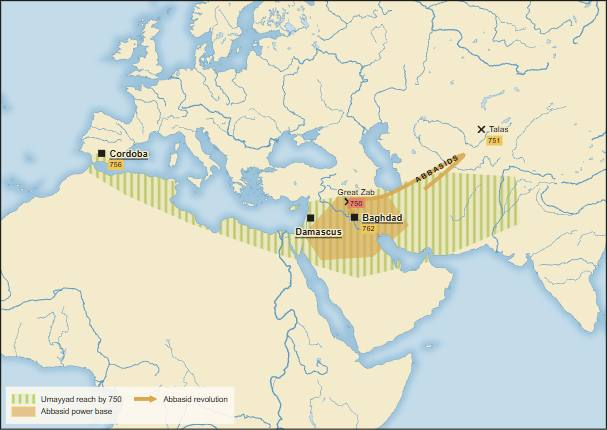
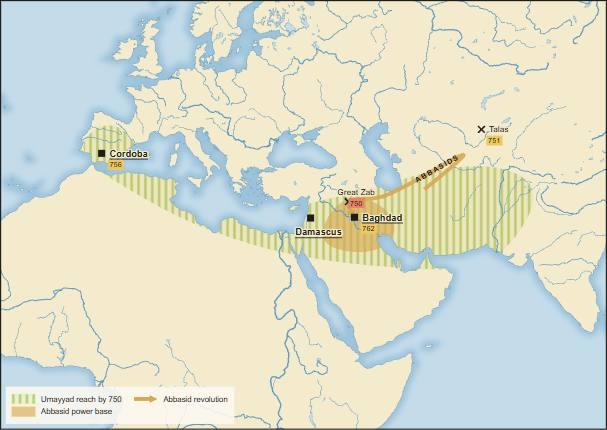
Round 6–7 plate fixes
Copilot-Session: 37f2f47f-8b63-49cd-b8ce-cded564ac449

diff --git a/atlas/plates/abbasid-baghdad.js b/atlas/plates/abbasid-baghdad.js
@@ -1,43 +1,44 @@
 // Abbasid Baghdad and the House of Wisdom, round 7.
 (function () {
   const IS="#6b8c3f", KNOW="#5b78a8", BYZ="#d66a4a", IND="#b36b2e", CHN="#8c5fb3", PER="#9a6a38", WATER="#5f9dc7", WALL="#7b6848";
-  const BAG=[44.37,33.31], CON=[28.98,41.01], SAM=[66.98,39.65], GUN=[48.56,32.28], UJJ=[75.78,23.18], CHANG=[108.94,34.26], CORD=[-4.78,37.88], TOL=[-4.03,39.86];
+  const BAG=[44.37,33.31], CON=[28.98,41.01], SAM=[66.98,39.65], GUN=[48.56,32.28], SINDH=[68.0,24.0], CHANG=[108.94,34.26], CORD=[-4.78,37.88], TOL=[-4.03,39.86];
   const circle=(cx,cy,r,n=96)=>Array.from({length:n+1},(_,i)=>{const a=2*Math.PI*i/n; return [cx+r*Math.cos(a),cy+r*Math.sin(a)];});
   window.PLATES["abbasid-baghdad"] = { id:"abbasid-baghdad", title:"Abbasid Baghdad: the Round City and the House of Wisdom", head:"Early Middle Ages / Islam", folio:"18", viewer:"medieval/0762/ch-abbasid-baghdad", figures:[
-    { caption:"The Round City founded by al-Mansur, 762", share:0.55, extent:[[0,0],[100,80]], projection:"plan", base:{map:false,sea:"#fbf8f0"}, layers:[
-      {id:"tigris",type:"route",style:"dashed",colour:WATER,width:5,legend:"Tigris",path:[[78,78],[74,65],[72,52],[75,36],[73,18],[70,2]]},
-      {id:"sarat",type:"route",style:"road",colour:WATER,width:2.3,legend:"Sarat and Isa canals",path:[[18,52],[34,49],[50,45],[67,42],[75,39]]},
-      {id:"isa",type:"route",style:"road",colour:WATER,width:2.3,path:[[17,28],[36,30],[53,33],[72,36]]},
+    { caption:"The Round City founded by al-Mansur, 762", share:0.55, extent:[[10,8],[86,72]], projection:"plan", base:{map:false,sea:"#fbf8f0"}, layers:[
+      {id:"tigris",type:"route",style:"dashed",colour:WATER,width:5,legend:"Tigris",path:[[74,72],[72,62],[73,50],[76,38],[74,25],[71,8]]},
+      {id:"isa",type:"route",style:"road",colour:WATER,width:2.3,legend:"Isa canal, north of the city",path:[[18,67],[35,69],[54,69],[70,64],[73,58]]},
+      {id:"sarat",type:"route",style:"road",colour:WATER,width:2.3,legend:"Sarat canal, south of the city",path:[[16,19],[31,15],[50,14],[67,18],[74,27]]},
       {id:"outer-wall",type:"boundary",style:"wall",colour:WALL,width:2.8,legend:"Round City walls",path:circle(48,40,25)},
       {id:"inner-wall",type:"boundary",style:"solid",colour:WALL,width:1.3,legend:"Inner palace ring",path:circle(48,40,10)},
-      {id:"kufa-gate",type:"point",symbol:"fortress",at:[34,19],name:"Kufa Gate",legend:"Four gates"},
-      {id:"basra-gate",type:"point",symbol:"fortress",at:[65,21],name:"Basra Gate"},
+      {id:"kufa-gate",type:"point",symbol:"fortress",at:[34,19],name:"Kufa Gate",legend:"Four gates",labelPos:"e"},
+      {id:"basra-gate",type:"point",symbol:"fortress",at:[65,21],name:"Basra Gate",labelPos:"s"},
       {id:"khurasan-gate",type:"point",symbol:"fortress",at:[73,45],name:"Khurasan Gate"},
       {id:"syria-gate",type:"point",symbol:"fortress",at:[26,48],name:"Syria Gate"},
-      {id:"palace",type:"point",symbol:"capital",at:[46,41.5],name:"Golden Gate palace",legend:"Palace and mosque",dx:-28},
-      {id:"mosque",type:"point",symbol:"temple",at:[51,35],name:"Great Mosque"},
-      {id:"karkh",type:"area",tier:"influence",colour:IS,legend:"Karkh market suburb",polygon:[[17,17],[31,15],[34,25],[25,33],[13,29]],smooth:false,clipToLand:false},
-      {id:"wisdom",type:"point",symbol:"university",at:[61,47],name:"House of Wisdom",legend:"Translation centre",dx:22,dy:-10,tag:{text:"Bayt al-Hikma",colour:"#f1c75b"}},
+      {id:"palace",type:"point",symbol:"capital",at:[46,41.5],name:"Golden Gate palace",legend:"Palace and mosque",labelPos:"w"},
+      {id:"mosque",type:"point",symbol:"temple",at:[51,35],name:"Great Mosque",labelPos:"s"},
+      {id:"karkh",type:"area",tier:"influence",colour:IS,legend:"Karkh market suburb",polygon:[[19,16],[33,14],[42,22],[34,31],[20,28]],smooth:"basis",clipToLand:false},
+      {id:"wisdom",type:"point",symbol:"university",at:[54,44],name:"House of Wisdom?",legend:"Translation centre",labelPos:"ne",tag:{text:"site unknown",colour:"#f1c75b"}},
       {id:"round-city-label",type:"label",style:"realm",text:"MADINAT AL-SALAM",at:[48,60],size:11}
-    ], legend:{position:"bottom-left",columns:2} },
+    ], legend:{position:"top-left",columns:2} },
     { caption:"Knowledge flows through Baghdad", share:0.45, extent:[[-15,15],[115,55]], projection:"conic", layers:[
-      {id:"abbasid-heart",type:"area",clipToLand:true,tier:"core",colour:IS,legend:"Abbasid heartland",polygon:[[30,28],[38,36],[47,36],[52,31],[48,25],[38,24]],smooth:false},
+      {id:"caliphate",type:"area",clipToLand:true,tier:"influence",colour:IS,legend:"Abbasid caliphate c. 800",polygon:[[-6,36],[10,37],[29,32],[38,36],[48,36],[61,35],[75,31],[72,25],[55,24],[42,27],[30,29],[14,32]],smooth:"basis"},
+      {id:"abbasid-heart",type:"area",clipToLand:true,tier:"core",colour:IS,legend:"Iraq and western Iran heartland",polygon:[[38,30],[40,35],[44,36.2],[49,34.2],[51,31.0],[48,28.0],[43,28.8]],smooth:"basis"},
       {id:"greek",type:"arrow",colour:BYZ,width:3,legend:"Greek texts from Byzantium",path:[CON,[36,39],BAG],label:"Greek"},
-      {id:"persian",type:"arrow",colour:PER,width:3,legend:"Persian learning from Gundeshapur",path:[GUN,[46,33.5],[43.5,34.2],BAG]},
-      {id:"indian",type:"arrow",colour:IND,width:3,legend:"Indian numerals and astronomy",path:[UJJ,[62,28],BAG],label:"Indian numerals"},
+      {id:"persian",type:"arrow",colour:PER,width:3,legend:"Persian learning from Gundeshapur",path:[GUN,[46.3,33.0],BAG]},
+      {id:"indian",type:"arrow",colour:IND,width:3,legend:"Indian numerals and astronomy",path:[SINDH,[57,26.5],[49,30.5],BAG]},
       {id:"paper",type:"arrow",colour:CHN,width:3,legend:"Paper from China via Samarkand",path:[CHANG,[88,39],SAM,[55,37],BAG],label:"paper"},
       {id:"westward",type:"arrow",colour:KNOW,width:3,legend:"Onward to al-Andalus and Toledo",path:[BAG,[25,34],CORD,TOL],label:"to Toledo"},
       {id:"baghdad",type:"point",symbol:"capital",at:BAG,name:"Baghdad",tag:{text:"762",colour:"#f1c75b"}},
-      {id:"constantinople",type:"point",symbol:"capital",at:CON,name:"Constantinople"}, {id:"samarkand",type:"point",symbol:"large-city",at:SAM,name:"Samarkand",tag:{text:"751",colour:"#f1c75b"}}, {id:"gundeshapur",type:"point",symbol:"university",at:GUN,name:"Gundeshapur"}, {id:"toledo",type:"point",symbol:"university",at:TOL,name:"Toledo"}
+      {id:"constantinople",type:"point",symbol:"capital",at:CON,name:"Constantinople"}, {id:"samarkand",type:"point",symbol:"large-city",at:SAM,name:"Samarkand",tag:{text:"751",colour:"#f1c75b"}}, {id:"gundeshapur",type:"point",symbol:"university",at:GUN,name:"Gundeshapur",labelPos:"se"}, {id:"toledo",type:"point",symbol:"university",at:TOL,name:"Toledo"}
     ], legend:{position:"bottom-left",columns:1} }
   ], text:{ intro:"Baghdad was both a planned capital and a collecting house for knowledge moving across Eurasia.", sections:[
     {heading:"Round City", entries:[
       {date:"762", text:"Al-Mansur builds Madinat al-Salam, the Round City of Baghdad, on the Tigris. The plan makes power legible: circular walls, four axial gates, and the palace and mosque at the centre.", refs:["outer-wall","inner-wall","kufa-gate","basra-gate","khurasan-gate","syria-gate","palace","mosque","tigris"]},
-      {date:"8th-9th c.", text:"Karkh grows outside the walls as a market suburb. The city is not just the neat circle; it is canals, trade, suburbs and court demand around it.", refs:["karkh","sarat","isa"]}
+      {date:"8th-9th c.", text:"Karkh grows south of the walls between canal lines. The city is not just the neat circle; it is canals, trade, suburbs and court demand around it.", refs:["karkh","sarat","isa"]}
     ]},
     {heading:"House of Wisdom", entries:[
-      {date:"8th-9th c.", text:"The House of Wisdom gathers translators, astronomers and mathematicians. Greek, Persian and Indian learning is pulled into Arabic scholarly culture.", refs:["wisdom","greek","persian","indian","constantinople","gundeshapur"]},
+      {date:"8th-9th c.", text:"The House of Wisdom, shown near the palace precinct because its exact site is unknown, gathers translators, astronomers and mathematicians. Greek, Persian and Indian learning is pulled into Arabic scholarly culture.", refs:["wisdom","greek","persian","indian","constantinople","gundeshapur"]},
       {date:"751 onward", text:"Paper-making moves west after Talas and Samarkand. Indian numerals and astronomy reach Baghdad, then parts of this learning travel through al-Andalus and Toledo into Europe.", refs:["paper","samarkand","westward","toledo","baghdad"]}
     ]}
-  ]}, sources:["Penguin Atlas Vol. 1 pp. 136-139", "Round City plan schematic after standard descriptions; city plan is diagrammatic, not a surveyed street map"] };
+  ]}, sources:["Penguin Atlas Vol. 1 pp. 136-139", "Round City plan schematic after standard descriptions; the House of Wisdom site is unknown, and the city plan is diagrammatic, not a surveyed street map"] };
 })();

diff --git a/atlas/plates/first-crusades.js b/atlas/plates/first-crusades.js
@@ -4,11 +4,12 @@
   const CLER=[3.08,45.78], VEZ=[18.42,43.86], CON=[28.98,41.01], NIC=[29.72,40.43], DOR=[30.52,39.78], ANT=[36.16,36.20], JER=[35.21,31.77], EDE=[38.79,37.16], TRI=[35.84,34.43], ACR=[35.08,32.92], HAT=[35.46,32.8], DAM=[36.31,33.51], TYE=[35.19,33.27], JAF=[34.75,32.05], SAL=[33.45,36.5];
   window.PLATES["first-crusades"] = { id:"first-crusades", title:"The First, Second and Third Crusades", head:"High Middle Ages / The Crusades", folio:"19", viewer:"medieval/1099/ch-crusades", figures:[
     { caption:"Routes of the First Crusade, 1096-99", share:0.5, extent:[[-6,28],[42,50]], projection:"conic", layers:[
-      {id:"byzantium",type:"area",clipToLand:true,tier:"core",colour:BYZ,legend:"Byzantium",polygon:[[19,39],[28,44],[35,41],[34,36],[26,35]],smooth:false},
-      {id:"seljuk",type:"area",clipToLand:true,tier:"core",colour:SEL,legend:"Seljuk and Muslim powers",polygon:[[29,37],[36,42],[42,38],[41,31],[34,30],[30,34]],smooth:false},
-      {id:"french-route",type:"arrow",colour:CR,width:3.2,legend:"Crusader routes",path:[CLER,[7,45],[13,44],VEZ,CON,NIC,DOR,ANT,JER],label:"First Crusade"},
-      {id:"italy-sea",type:"arrow",colour:SEA,width:2.8,legend:"Sea crossing",path:[[12.5,41.9],[18,39],[25,38],CON],label:"to Constantinople"},
-      {id:"nicaea",type:"point",symbol:"siege",at:NIC,name:"Nicaea",labelPos:"n",tag:{text:"1097",colour:"#f1c75b"}}, {id:"dorylaeum",type:"point",symbol:"battle",at:DOR,name:"Dorylaeum",labelPos:"s",tag:{text:"1097",colour:"#e8806a"}}, {id:"antioch",type:"point",symbol:"siege",at:ANT,name:"Antioch",tag:{text:"1098",colour:"#f1c75b"}}, {id:"jerusalem",type:"point",symbol:"siege",at:JER,name:"Jerusalem",tag:{text:"1099",colour:"#f1c75b"}}, {id:"constantinople",type:"point",symbol:"capital",at:CON,name:"Constantinople",labelPos:"w"}
+      {id:"byzantium",type:"area",clipToLand:true,tier:"core",colour:BYZ,legend:"Byzantium",polygon:[[18,39],[21,44],[27,44],[31,41],[30,38],[26,37],[23,39]],smooth:"basis"},
+      {id:"seljuk",type:"area",clipToLand:true,tier:"core",colour:SEL,legend:"Seljuk Turks in Anatolia and Syria",polygon:[[29,37],[32,41],[38,40],[41,37],[39,34],[36,32],[32,33],[30,35]],smooth:"basis"},
+      {id:"fatimid",type:"area",clipToLand:true,tier:"core",colour:FAT,legend:"Fatimid Palestine and Egypt",polygon:[[30,30],[33,32.5],[36,32.5],[36,30],[34,28.5],[31,28.5]],smooth:"basis"},
+      {id:"danube-route",type:"arrow",colour:CR,width:3.2,legend:"Overland route via Rhine-Danube",path:[CLER,[7.5,49.8],[11.5,48.8],[16.4,48.2],[20.5,44.8],[23.3,42.7],[26,42.3],CON,NIC,DOR,ANT,JER],label:"First Crusade"},
+      {id:"italy-sea",type:"arrow",colour:SEA,width:2.8,legend:"Italy-Durazzo and Via Egnatia",path:[[12.5,41.9],[16.87,41.12],[19.45,41.32],[22,41.0],[25,40.8],CON]},
+      {id:"nicaea",type:"point",symbol:"siege",at:NIC,name:"Nicaea",labelPos:"ne",tag:{text:"1097",colour:"#f1c75b"}}, {id:"dorylaeum",type:"point",symbol:"battle",at:DOR,name:"Dorylaeum",labelPos:"s",tag:{text:"1097",colour:"#e8806a"}}, {id:"antioch",type:"point",symbol:"siege",at:ANT,name:"Antioch",tag:{text:"1098",colour:"#f1c75b"}}, {id:"jerusalem",type:"point",symbol:"siege",at:JER,name:"Jerusalem",tag:{text:"1099",colour:"#f1c75b"}}, {id:"constantinople",type:"point",symbol:"capital",at:CON,name:"Constantinople",labelPos:"sw"}
     ], legend:{position:"bottom-left",columns:2} },
     { caption:"Crusader states, Saladin and the Third Crusade", share:0.5, extent:[[28,29],[40,38.5]], projection:"mercator", layers:[
       {id:"jerusalem-kingdom",type:"area",clipToLand:true,tier:"core",colour:CR,legend:"Kingdom of Jerusalem",polygon:[[34.5,31.0],[35.2,33.5],[36.2,33.2],[35.8,31.3],[35.1,30.7]],smooth:false},
@@ -22,7 +23,7 @@
     ], legend:{position:"bottom-left",columns:1} }
   ], text:{ intro:"The crusades began as armed pilgrimage and became a chain of small Latin states on an exposed Levantine coast.", sections:[
     {heading:"Taking Jerusalem", entries:[
-      {date:"1095-99", text:"Urban II's call at Clermont sends western armies through Byzantium and Anatolia. Nicaea, Dorylaeum and Antioch mark the hard road to Jerusalem.", refs:["french-route","italy-sea","constantinople","nicaea","dorylaeum","antioch","jerusalem"]},
+      {date:"1095-99", text:"Urban II's call at Clermont sends western armies overland by the Rhine-Danube route and by southern Italy to Durazzo, then through Byzantium and Anatolia. Jerusalem is taken from Fatimid control in 1099. Nicaea, Dorylaeum and Antioch mark the hard road to Jerusalem.", refs:["danube-route","italy-sea","constantinople","nicaea","dorylaeum","antioch","jerusalem","fatimid"]},
       {date:"1099", text:"Jerusalem falls and the crusaders build states at Jerusalem, Antioch, Edessa and Tripoli, using castles and ports more than deep inland control.", refs:["jerusalem-kingdom","antioch-principality","edessa","tripoli"]}
     ]},
     {heading:"Holding the coast", entries:[

diff --git a/atlas/plates/carolingian-partition.js b/atlas/plates/carolingian-partition.js
@@ -3,7 +3,7 @@
   const FR="#7a5a8c", W="#cf8b65", M="#e0b04e", E="#7b93a4", SAX="#8fb36a", IT="#d66a4a", LINE="#5f4b8b";
   const AACH=[6.08,50.78], ROME=[12.5,41.9], VER=[5.38,49.16], TOURS=[0.68,47.39], RON=[-1.3,43.01], PAV=[9.16,45.18];
   const westEdge = [[4.35,52.8],[4.75,51.4],[5.75,50.4],[5.85,49.2],[5.55,48.2],[5.25,47.0],[4.85,45.8],[4.95,44.6],[5.25,43.5]];
-  const eastEdge = [[8.55,53.4],[8.2,52.0],[7.8,50.8],[7.7,49.5],[8.0,48.2],[8.45,47.0],[8.85,45.8],[9.45,44.4],[10.1,42.8]];
+  const eastEdge = [[8.55,53.4],[8.2,52.0],[7.8,50.8],[7.7,49.5],[8.0,48.2],[8.45,47.0],[8.85,45.8],[9.45,44.4]];
   window.PLATES["carolingian-partition"] = { id:"carolingian-partition", title:"Charlemagne's empire and the partition of 843", head:"Early Middle Ages / The Franks", folio:"14", viewer:"medieval/0843/ch-franks-carolingians", figures:[
     { caption:"The Empire of Charlemagne", share:0.48, extent:[[-6,40],[18,55]], projection:"mercator", layers:[
       {id:"frankish-core",type:"area",clipToLand:true,tier:"core",colour:FR,legend:"Frankish core",polygon:[[0,46.5],[1.5,49.5],[4.5,51.0],[7.0,50.0],[6.7,47.2],[3.5,45.4]],smooth:false},
@@ -16,10 +16,10 @@
       {id:"aachen",type:"point",symbol:"capital",at:AACH,name:"Aachen",tag:{text:"palace",colour:"#f1c75b"}}, {id:"rome",type:"point",symbol:"capital",at:ROME,name:"Rome",tag:{text:"800",colour:"#f1c75b"}}, {id:"tours",type:"point",symbol:"battle",at:TOURS,name:"Tours",tag:{text:"732",colour:"#e8806a"}}, {id:"roncesvalles",type:"point",symbol:"battle",at:RON,name:"Roncesvalles",tag:{text:"778",colour:"#e8806a"}}
     ], legend:{position:"top-left",columns:2} },
     { caption:"The Treaty of Verdun, 843", share:0.52, extent:[[-7,40],[18,55]], projection:"mercator", layers:[
-      {id:"west-francia",type:"area",clipToLand:true,edge:false,tier:"core",colour:W,legend:"West Francia: Charles the Bald",polygon:[[-5.8,42.6],[-5.0,48.8],[-1.0,51.0],[2.7,52.0],westEdge[0],...westEdge.slice(1),[3.6,43.0],[-1.2,42.0]],smooth:false},
-      {id:"middle-kingdom",type:"area",clipToLand:true,edge:false,tier:"core",colour:M,legend:"Middle kingdom: Lothar",polygon:[westEdge[0],...westEdge.slice(1),[7.7,42.0],[9.0,41.4],[10.8,42.0],...eastEdge.slice().reverse(),[8.55,53.4]],smooth:false},
-      {id:"east-francia",type:"area",clipToLand:true,edge:false,tier:"core",colour:E,legend:"East Francia: Louis the German",polygon:[eastEdge[0],...eastEdge.slice(1),[13.7,43.5],[16.0,46.0],[15.2,51.2],[12.0,53.1]],smooth:false},
-      {id:"italy-lothar",type:"area",clipToLand:true,tier:"conquest",colour:M,pattern:"stripe",legend:"Lothar's Italy, north and centre",polygon:[[7.7,45.5],[10.8,46.1],[13.2,44.0],[13.8,41.8],[12.8,40.6],[11.4,41.2],[9.6,42.8],[8.2,44.0]],smooth:false},
+      {id:"west-francia",type:"area",clipToLand:true,edge:false,tier:"core",colour:W,legend:"West Francia: Charles the Bald",polygon:[[-5.8,42.6],[-4.8,48.4],[-1.0,49.6],[1.8,50.6],westEdge[0],...westEdge.slice(1),[3.6,43.0],[-1.2,42.0]],smooth:false},
+      {id:"middle-kingdom",type:"area",clipToLand:true,edge:false,tier:"core",colour:M,legend:"Middle kingdom: Lothar",polygon:[westEdge[0],...westEdge.slice(1),[7.4,43.0],[8.7,44.1],[9.5,44.4],...eastEdge.slice().reverse(),[8.55,53.4]],smooth:false},
+      {id:"east-francia",type:"area",clipToLand:true,edge:false,tier:"core",colour:E,legend:"East Francia: Louis the German",polygon:[eastEdge[0],...eastEdge.slice(1),[11.2,45.7],[14.8,47.3],[15.2,51.2],[12.0,53.1]],smooth:false},
+      {id:"italy-lothar",type:"area",clipToLand:true,tier:"conquest",colour:M,pattern:"stripe",legend:"Lothar's Italy, north and centre",polygon:[[8.2,45.1],[10.4,45.5],[12.2,44.2],[13.1,42.4],[12.3,41.0],[11.0,41.3],[9.5,42.8],[8.6,44.0]],smooth:true},
       {id:"benevento",type:"area",clipToLand:true,tier:"influence",colour:"#8fb36a",legend:"Benevento and Byzantine south outside Lothar",polygon:[[13.0,41.2],[15.5,41.0],[16.2,39.0],[15.0,37.8],[13.5,39.3]],smooth:false},
       {id:"verdun-west",type:"boundary",style:"partition",colour:LINE,width:3,legend:"Partition lines",path:westEdge},
       {id:"verdun-east",type:"boundary",style:"partition",colour:LINE,width:3,path:eastEdge},

diff --git a/atlas/plates/abbasid-caliphate.js b/atlas/plates/abbasid-caliphate.js
@@ -4,8 +4,8 @@
   const BAG=[44.37,33.31], DAM=[36.31,33.51], CORD=[-4.78,37.88], KAI=[10.10,35.68], CAI=[31.23,30.04], SAM=[66.98,39.65], TAL=[71.9,42.52], ZAB=[43.45,35.75], JER=[35.21,31.77];
   window.PLATES["abbasid-caliphate"] = { id:"abbasid-caliphate", title:"From Umayyad empire to Abbasid world", head:"Early Middle Ages / Islam", folio:"17", viewer:"medieval/0750/ch-abbasid-caliphate", figures:[
     { caption:"The caliphate at the Abbasid revolution", share:0.5, extent:[[-12,15],[82,46]], projection:"conic", layers:[
-      {id:"umayyad-reach",type:"area",clipToLand:true,tier:"conquest",colour:UM,legend:"Umayyad reach by 750",polygon:[[-10,35],[-3,39],[9,37],[25,34],[36,36],[47,37],[62,38],[75,34],[73,27],[57,25],[44,24],[30,28],[15,31],[2,33]],smooth:false},
-      {id:"abbasid-core",type:"area",clipToLand:true,tier:"core",colour:ABB,legend:"Abbasid power base",polygon:[[35,31],[42,37],[51,36],[54,31],[47,27],[38,27]],smooth:false},
+      {id:"umayyad-reach",type:"area",clipToLand:true,tier:"conquest",colour:UM,legend:"Umayyad reach by 750",polygon:[[-10,36],[-8,42],[-2,43],[3,39],[13,37],[27,33],[36,36],[47,37],[62,39],[75,36],[79,30],[70,24],[64,22],[55,24],[44,26],[30,28],[14,31],[2,34]],smooth:"basis"},
+      {id:"abbasid-core",type:"area",clipToLand:true,tier:"core",colour:ABB,legend:"Abbasid power base",polygon:[[37,30],[41,36],[46,36.5],[51,34],[52,30],[48,27.5],[42,28]],smooth:"basis"},
       {id:"revolution",type:"arrow",colour:ABB,width:4,legend:"Abbasid revolution",path:[[58,36],SAM,[50,36],ZAB,BAG],label:"Abbasids"},
       {id:"talas",type:"point",symbol:"battle",at:TAL,name:"Talas",tag:{text:"751",colour:"#f1c75b"}},
       {id:"zab",type:"point",symbol:"battle",at:ZAB,name:"Great Zab",labelPos:"n",tag:{text:"750",colour:"#e8806a"}},
@@ -22,7 +22,7 @@
     ], legend:{position:"bottom-left",columns:1} }
   ], text:{ intro:"After 750 the Islamic world is still connected by religion, Arabic and trade, but political control breaks into regional dynasties.", sections:[
     {heading:"Abbasid turn", entries:[
-      {date:"750", text:"The Abbasids overthrow the Umayyads at the Great Zab and shift the caliphate's centre from Syria toward Iraq and Iran.", refs:["umayyad-reach","abbasid-core","revolution","zab","damascus"]},
+      {date:"750", text:"The Abbasids overthrow the Umayyads at the Great Zab. The inherited Umayyad reach ran from al-Andalus through North Africa and Syria to Transoxiana and Sindh, but the new centre shifted toward Iraq and Iran.", refs:["umayyad-reach","abbasid-core","revolution","zab","damascus"]},
       {date:"751-762", text:"Talas marks contact with Tang Central Asia; Baghdad then becomes the Abbasid capital, better placed for Persian, Iraqi and Silk Road networks.", refs:["talas","baghdad"]}
     ]},
     {heading:"Several centres", entries:[

diff --git a/atlas/js/plate.js b/atlas/js/plate.js
@@ -95,7 +95,9 @@
   function zonePath(L, proj) {
     if (L.polygon) {
       const pts = L.polygon.map(proj);
-      return d3.line().curve(L.smooth === false ? d3.curveLinearClosed : d3.curveCatmullRomClosed.alpha(0.5))(pts);
+      const smooth = L.smooth == null ? true : L.smooth;
+      const curve = smooth === false ? d3.curveLinearClosed : smooth === "basis" ? d3.curveBasisClosed : d3.curveCatmullRomClosed.alpha(0.5);
+      return d3.line().curve(curve)(pts);
     }
     const padDeg = L.pad != null ? L.pad : 1.2;
     const pts = [];

diff --git a/docs/atlas-design-language.md b/docs/atlas-design-language.md
@@ -359,3 +359,7 @@ Most atlas figures are geographic maps, but a few subjects are better explained 
 
 The Baghdad plate uses this sparingly: the Round City is a schematic plan with circular walls, four gates, canals, the Tigris, the palace, mosque and House of Wisdom. Its companion figure returns to a geographic map for knowledge flows. This keeps city form and world context on one spread without pretending the city plan is a surveyed modern map.
 
+### Soft hand-drawn region edges
+
+Area polygons default to softened closed curves (`smooth: true`). This is intentional: the atlas should read as historical fields and soft frontiers, not straight-edged GIS hexagons. Use `smooth: false` only when the line must be exact, such as the shared Verdun partition edges; otherwise let the renderer curve the hand-placed vertices and use `clipToLand: true` for coastlines. `smooth: "basis"` is available for very broad cultural or imperial washes where an even softer edge is better.
+
